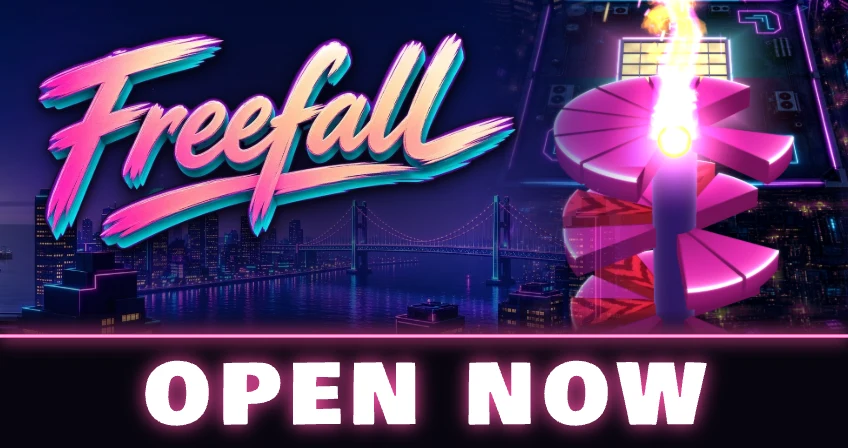
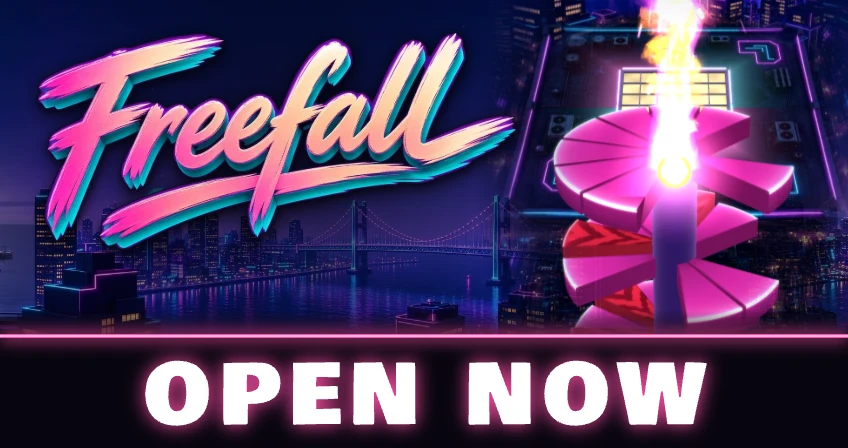
FREEFALL F5A — THE ADD-ON (THE DAY OFFICES FOG) + THE FRESH-EYES REVIEW's FIXES. THE ADD-ON (the owner's iPhone: by day the offices' floors washed into pale blue from the 3rd floor under the ball, ~40 % down the screen): the day offices' haze is a DEEPER blue (it was the floors' own pale periwinkle)

Changed region(s): [[0.5825, 0.0, 1.0, 0.75]]

diff --git a/js/games/freefall/break-fx.js b/js/games/freefall/break-fx.js
@@ -36,7 +36,7 @@ void main() {
   float size = mix(aT.z, aT.w, 1.0 - (1.0 - k) * (1.0 - k)), a = s6 + age * aM.y, ca = cos(a), sa = sin(a);
   // (F5A — THE DUST: a puff is a soft BALL, not a card — its depth is its NEAR side's. A card at its middle's depth was cut off along a
   //  straight line wherever the ground under it ran in front: the dust clouds' flat edges)
-  vec4 cn = projectionMatrix * (mv + vec4(0.0, 0.0, size * 0.6, 0.0));
+  vec4 cn = projectionMatrix * (mv + vec4(0.0, 0.0, size * 0.6 + 0.14, 0.0));   // (+ 0.14: a small star just over the sand is whole too — the review: half-discs)
   c.z = cn.z / cn.w * c.w;
   c.xy += vec2(position.x * ca - position.y * sa, position.x * sa + position.y * ca) * size * vec2(projectionMatrix[0][0], projectionMatrix[1][1]);
   gl_Position = c;
@@ -224,8 +224,8 @@ void main() {
   float seam = 1.0 - smoothstep(0.0, sw.x + 0.006, sheet.x) * smoothstep(0.0, sw.y + 0.006, sheet.y);
   c *= mix(1.0, (0.8 + 0.36 * grain) * (0.93 + 0.14 * mott) * (1.0 - 0.3 * seam), uNear);
   // (F5A — THE ROOF GRAIN: the same detail tile, read as the roof below reads it — night-fx.js SKY_F: one roof, no edge where the deck ends)
-  float gr = (texture2D(tGrain, ru * 15.0).r - 0.5) * 0.62 + (texture2D(tGrain, vec2(ru.y, -ru.x) * 5.7 + 0.31).r - 0.5) * 0.38;
-  c *= 1.0 + gr * uNear * uHaveG * mix(0.5, 1.15, uDay);
+  float gr = (texture2D(tGrain, ru * 15.0).r - 0.5) * 0.5 + (texture2D(tGrain, vec2(ru.y, -ru.x) * 5.7 + 0.31).r - 0.5) * 0.5;
+  c *= 1.0 + gr * uNear * uHaveG * mix(0.55, 1.45, uDay);
   // the tubes' light on the deck (night), dying with them
   float lit = 1.0 - smoothstep(0.0, 0.5, uTime - uBreakT - 0.3);
   c += mix(vec3(0.2, 0.75, 0.95), vec3(0.95, 0.25, 0.8), smoothstep(-0.4, 0.4, q.x * sign(q.y + 0.001))) * exp(-(inside - uHalf) / 0.28) * 0.55 * lit * (1.0 - uDay);
@@ -281,7 +281,8 @@ float lines(vec2 p, float t) {
   vec2 q = p + 0.5 * vec2(sin(p.y * 0.7 + t * 0.3), cos(p.x * 0.6 - t * 0.26));
   float a = sin(q.x * 3.4 + t * 0.35) + sin(q.y * 1.7 - t * 0.3) + sin((q.x * 1.3 - q.y * 1.5) * 1.3 + t * 0.22) - 0.35;
   float w = fwidth(a);
-  return 1.0 - smoothstep(w * 0.5, w * 1.5 + 0.003, abs(a));
+  // (the review: hairline closed loops read as scratches on glass — soft strokes two or three pixels wide, broken into arcs that come + go)
+  return (1.0 - smoothstep(w * 0.8, w * 2.6 + 0.004, abs(a))) * smoothstep(0.36, 0.6, vn2(q * 0.85 + 7.0));
 }
 void main() {
   float r = length(vW.xz);
@@ -330,11 +331,11 @@ void main() {
     lamp = mix(vec3(0.62, 0.26, 1.3), vec3(1.0, 0.8, 0.46), warm) * lum * uHaveW;
     // … broken into dashes by the swell — whole at the wall's foot, more broken the farther out
     float dash = 0.5 + 0.5 * sin(s * 7.6 + g.y * 2.4 + sin(u * 25.13) * 0.7 - uTime * 0.7) * (0.75 + 0.25 * sin(s * 2.9 - uTime * 0.31 + u * 9.0));
-    float streak = mix(1.0, smoothstep(0.12 + 0.05 * s, 0.95, dash), smoothstep(0.15, 1.1, s)) * exp(-s / 3.6);
+    float streak = mix(1.0, smoothstep(0.12 + 0.05 * s, 0.95, dash), smoothstep(0.15, 1.1, s)) * exp(-s / 2.8);
     vec3 st = min(lamp * 0.42, vec3(0.5)) * streak;
     col += st; glow += st * 0.3;
     // the ball: a soft pink-white streak
-vec3 bl = vec3(1.0, 0.55, 0.82) * (lane * 0.2 * smoothstep(0.15, 0.9, dash) + pool * 0.07);
+vec3 bl = vec3(1.0, 0.55, 0.82) * (lane * 0.12 * smoothstep(0.15, 0.9, dash) + pool * 0.04);
     col += bl; glow += bl * 0.3;
     // small pink / cyan GLINTS — short dashes that come + go
     vec2 gl = speck(vW.xz * 6.0 + 3.7, 0.22, vec2(1.0, 2.6), 0.13);
@@ -347,7 +348,7 @@ vec3 bl = vec3(1.0, 0.55, 0.82) * (lane * 0.2 * smoothstep(0.15, 0.9, dash) + po
     col = min(col, vec3(0.62));                 // (LINEAR light — a reflection in dark water stays a soft one: never a white blotch)
   } else {
     // ---- DAY: bright turquoise, paler toward the far edge (a soft lift — never a clipped white rim)
-    col = mix(vec3(0.02, 0.37, 0.62), vec3(0.1, 0.66, 0.8), smoothstep(0.12, 0.5, graze));
+    col = mix(vec3(0.03, 0.5, 0.7), vec3(0.1, 0.66, 0.8), smoothstep(0.12, 0.5, graze));   // (the review: turquoise to the near edge — it went steel-blue there)
     col = mix(col, vec3(0.4, 0.85, 0.9), smoothstep(0.5, 0.8, graze));
     col *= 1.0 + 0.09 * g.y;
     // thin, few, moving ripple LINES
@@ -356,8 +357,8 @@ vec3 bl = vec3(1.0, 0.55, 0.82) * (lane * 0.2 * smoothstep(0.15, 0.9, dash) + po
     vec2 sp = speck(vW.xz * 7.0 + g * 0.1, 0.4, vec2(1.0, 2.2), 0.28);
     col += vec3(1.0) * sp.x * pow(0.5 + 0.5 * sin(uTime * 2.6 + sp.y * 60.0), 5.0) * smoothstep(0.42, 0.7, graze) * 0.7;
     // the ball: its soft pink glow + a pale streak of light
-    col = mix(col, vec3(1.0, 0.72, 0.9), pool * 0.45);
-    col = mix(col, vec3(0.8, 0.97, 1.0), lane * 0.34);
+    col = mix(col, vec3(1.0, 0.58, 0.84), pool * 0.5);
+    col = mix(col, vec3(1.0, 0.78, 0.92), lane * 0.3);   // (the review: PINK — it read as a white column)
   }
   // THE FOAM: a soft line where the water meets the wall + round the pillar (by night only a faint pale edge)
   float ang = atan(vW.x, -vW.z), fe = vn2(vec2(ang * 9.0, uTime * 0.25)) * 0.16 + 0.04 * sin(ang * 31.0 + uTime * 0.8);
@@ -387,6 +388,8 @@ uniform vec2 uImpact;
 /** THE TRENCH's MOUTH (SOLO — the tower goes on down; the fresh-eyes review: the floor under the ball is ALWAYS in sight): the bed is open
  *  round the tower's foot + along the cleft that runs from it toward the viewer — everything the camera sees the lower floors through.
  *  → how far outside the mouth's ragged edge a point of the bed is (under 0 = in it). uHole = 0 (a finish): no mouth, the bed is whole. */
+/** (F5A — the review: the bed ended in a ruler-straight line against the wall) the bed thins out toward the shaft's FAR wall: what is behind it shows through → how much of it is there */
+float farFade(vec2 xz) { return 1.0 - smoothstep(uRW - 1.0, uRW - 0.04, length(xz)) * smoothstep(0.3, -0.6, xz.y); }
 float mouth(vec2 xz) {
   float d = length(vec2(xz.x, min(xz.y, 0.0)));
   return d - uHole - 0.06 * sin(xz.y * 2.9 + xz.x * 1.3) - 0.035 * sin(xz.y * 7.3 - xz.x * 5.1 + 1.7) - 0.02 * sin(xz.x * 13.0 + xz.y * 11.0);
@@ -415,12 +418,10 @@ vec4 sand(vec2 xz, float under, float lit) {
   // F5A — THE SAND READS AS SAND: its own warm colour kept (it was washed to one grey-teal / one flat violet), SOFT LIGHT across it — low
   // dunes (a slow swell of light + shade) —, a fine grain, and single grains that catch the light near the ball + the tower's foot
   float dune = vn2(xz * 0.5 + 3.0) * 0.62 + vn2(xz * 1.6 + 11.0) * 0.38, grain = vn2(xz * 64.0), soft = 0.62 + 0.76 * dune;
-  vec2 gq = xz * 96.0;
-  float glint = step(0.99, h21(floor(gq))) * (1.0 - smoothstep(0.12, 0.42, length(fract(gq) - 0.5))) * (0.3 + ball + 0.6 * pool);   // (a round grain of light — never a square dot)
   c *= 0.86 + 0.28 * grain;
   // by night: deep blue-violet sand, the tower's rim glow in a pool round its foot, the ball's own warm light (the sand's true colour shows in it) · by day: sunlit sand under blue water + the caustics
-  vec3 night = c * vec3(0.075, 0.07, 0.19) * (0.34 + 0.95 * dif) * soft + c * uRimC * pool * (0.4 + 0.6 * dif) + c * vec3(1.0, 0.7, 0.74) * ball * 0.9 + vec3(0.7, 0.75, 1.0) * glint * 0.22;
-  vec3 day = c * vec3(0.6, 0.8, 0.84) * (0.42 + 0.92 * dif) * soft + c * vec3(0.5, 0.92, 0.95) * (sc1(xz * 1.4, uTime) + 0.6 * sc1(xz * 2.4 + 3.1, uTime * 1.31 + 2.0)) * 0.42 + c * vec3(0.55, 0.78, 0.9) * pool * 0.4 + vec3(1.0) * glint * 0.3;
+  vec3 night = c * vec3(0.075, 0.07, 0.19) * (0.34 + 0.95 * dif) * soft + c * uRimC * pool * (0.4 + 0.6 * dif) + c * vec3(1.0, 0.7, 0.74) * ball * 0.9;
+  vec3 day = c * vec3(0.82, 0.82, 0.72) * (0.42 + 0.92 * dif) * soft + c * vec3(0.5, 0.92, 0.95) * (sc1(xz * 1.4, uTime) + 0.6 * sc1(xz * 2.4 + 3.1, uTime * 1.31 + 2.0)) * 0.42 + c * vec3(0.55, 0.78, 0.9) * pool * 0.4;
   vec3 col = mix(night, day, uDay);
   // (… and it goes off into the water's own haze toward the shaft's far wall: never a hard bright line where the bed ends)
   col = mix(col, mix(vec3(0.008, 0.008, 0.035), vec3(0.02, 0.15, 0.3), uDay), smoothstep(uRW - 1.3, uRW, r) * step(xz.y, 0.0) * 0.8);
@@ -450,7 +451,8 @@ void main() {
   if (uHole > 0.0 && m < 0.0) discard;                        // (SOLO: the trench's mouth)
   vec4 s = sand(q, 0.0, 1.0);
   vec3 col = uBloom > 0.5 ? mix(uRimC, vec3(1.0), 0.3) * s.w * 0.6 : lipped(s.rgb, m);
-  gl_FragColor = vec4(col * uOuter, uOuter);
+  float fo = uOuter * farFade(q);
+  gl_FragColor = vec4(col * fo, fo);
   #include <tonemapping_fragment>
   #include <colorspace_fragment>
 }`;
@@ -470,7 +472,7 @@ void main() {
   float e = min(vB.x, min(vB.y, vB.z)), ew = fwidth(e) * 1.4 + 0.002, line = 1.0 - smoothstep(0.0, ew * 2.2, e);
   float dI = length(vRest.xz - uImpact), front = (uTime - uBreakT) * uCrack, crack = line * smoothstep(0.0, 0.4, front - dI) * step(uBreakT, uTime);
   vec3 col = mix(s.rgb, mix(uRimC * 1.6, vec3(0.3, 0.9, 1.0), uDay * 0.6), crack * 0.9 * (1.0 - 0.75 * fly));
-  float alpha = 1.0 - fly * smoothstep(0.6, 1.0, vK);
+  float alpha = (1.0 - fly * smoothstep(0.6, 1.0, vK)) * farFade(vRest.xz);
   if (uBloom > 0.5) col = mix(uRimC, vec3(1.0), 0.3) * (s.w * 0.6 + crack * 0.7);
   gl_FragColor = vec4(col * alpha, alpha);
   #include <tonemapping_fragment>
@@ -564,7 +566,7 @@ void main() {
   rays = rays * rays * rays * (0.55 + 0.45 * sin(a * 97.0 - t * 2.3)) + 0.12;     // (many thin shafts on a faint veil of light — never two wide bars)
   float env = (1.0 - smoothstep(0.2, 0.5, abs(a))) * smoothstep(0.0, 0.1, y) * (1.0 - smoothstep(0.82, 1.0, y)) * (0.4 + 0.6 * y);
   float age = uTime - uT0, life = smoothstep(0.0, 0.45, age) * (1.0 - smoothstep(2.3, 3.4, age));
-  vec3 col = mix(vec3(0.5, 0.95, 1.0), vec3(1.0, 0.97, 0.78), y) * rays * env * life * 0.5;
+  vec3 col = mix(vec3(0.5, 0.95, 1.0), vec3(1.0, 0.97, 0.78), y) * rays * env * life * 0.3;   // (the review: rays + dust never add up to a white-out)
   if (uBloom > 0.5) col *= 0.3;
   gl_FragColor = vec4(col, 0.0);
   #include <tonemapping_fragment>

diff --git a/js/games/freefall/night.js b/js/games/freefall/night.js
@@ -54,13 +54,18 @@ const DEEP_N = [1.25, 1.25, 1.4, 0, 0, 0, 0, 0, 0, 0, 0, 2], DEEP_D = [0.9, 1.0,
 export const AREA_NIGHT = Object.freeze([[1, 1, 1, 0, 0, 0, 0, 0, 0, 0, 0, 4], [1.3, 1.3, 1.45, 0, 0, 0, 0, 0, 0, 0, 0, 4], [0.95, 0.86, 1, 0, 0, 0, 0, 0, 0, 0, 0, 4], [1.05, 1.1, 1.15, 0, 0, 0, 0, 0, 0, 0, 0, 4], DEEP_N, DEEP_N, DEEP_N]);
 export const AREA_DAY = Object.freeze([
   [1, 1, 1, 0.56, 0.74, 0.93, 0.09, 0.105, 0.15, 0, 0, 4],           // THE ROOFTOP: the open air · THE STORM CLOUD
-  [0.5, 0.62, 0.86, 0.5, 0.68, 0.92, 0.03, 0.04, 0.08, 0, 3, 4],       // THE OFFICES: sunlit glass, daylight blue (the wall held down: white floors read on it)
+  [0.5, 0.62, 0.86, 0.2, 0.37, 0.72, 0.03, 0.04, 0.08, 0, 3, 4],       // THE OFFICES: sunlit glass, daylight blue (the wall held down: white floors read on it) — F5A's add-on: its haze a DEEPER blue (it was the floors' own pale periwinkle: 0.5, 0.68, 0.92)
   [0.82, 0.68, 0.6, 0.5, 0.33, 0.22, 0.035, 0.02, 0.02, 0, 3, 4],      // THE SPEAKEASY: brick + brass, a warm dusty haze
   [1, 1.08, 1.1, 0.0018, 0.042, 0.107, 0.012, 0.045, 0.04, 1, 1, 4],   // UNDER THE HARBOR: the water (#063a5c below) · THE MURK · bubbles
   DEEP_D, DEEP_D, DEEP_D,                                             // THE DEEP: deep blue, the wreck's warm lamps · drifting particles
 ]);
 /** an area's haze strength by day (how far the tower's lower floors fade into it): THE ROOFTOP has almost none — F3B: NO fog wash over the roof below */
 export const FOG_K = Object.freeze([0.2, 1, 1, 1, 1, 1, 1]);
+/** F5A's ADD-ON — THE DAY OFFICES FOG (the owner's iPhone: by day the offices' floors washed into pale blue from the 3rd floor under the
+ *  ball, ~40 % down the screen — the speakeasy + the harbor fade from 60 – 70 %): how far down the haze STARTS, as a share of its 7 floors
+ *  (0 = from the ball's own floor, as every other area: a dark haze only shows 4 – 5 floors down; THE OFFICES' pale floors on a pale blue
+ *  ground showed it at once) — its floors keep their colour + contrast as far down the screen as the other areas' */
+export const FOG_START = Object.freeze([0, 0.36, 0, 0, 0, 0, 0]);
 /** THE ROOF BELOW (F3B — docs/freefall.md): the painting's skylight (its centre + its frame's half size, as fractions of the picture —
  *  scripts/build-freefall-assets.py ROOF_SKY measures them) · how much of the painting's width the screen's width shows: `s0` on the
  *  title screen + floor 0 → `s1` by floor `to` (it RISES toward you floor by floor, by the same share each floor — then it stops: the
@@ -150,7 +155,7 @@ export function createNight(host, o = {}) {
     // (F4A — THE HAZE FOLLOWS THE FLOOR: the area BELOW the border in sight has its own haze, strength + caustics — uFogSeam = that border's height)
     uFogB: { value: new THREE.Vector3(0.62, 0.84, 0.98) }, uFogKB: { value: FOG_K[0] }, uCaustB: { value: 0 }, uFogSeam: { value: -1e5 },
     // (F3B) how strongly the tower fades into that haze (the area's — THE ROOFTOP: almost none)
-    uFogK: { value: FOG_K[0] },
+    uFogK: { value: FOG_K[0] }, uFogS: { value: 0 }, uFogSB: { value: 0 },
     // (F3B) the pillar is not drawn under this height: THE ROOF is shut until the skylight breaks
     uCutY: { value: -1e9 } };
   const TWINS = [];
@@ -252,11 +257,11 @@ export function createNight(host, o = {}) {
   const fxTex = picture('blaze', new URL(`../../../assets/freefall/fx/blaze.webp?v=${FF_ART_REV}`, import.meta.url).href, false);
 
   // ---- THE TOWER: the pillar + the slices (ONE instanced mesh)
-  const pillarMat = new THREE.ShaderMaterial({ vertexShader: PILLAR_V, fragmentShader: PILLAR_F, uniforms: { uBloom: G.uBloom, uTopY: G.uTopY, uDay: G.uDay, uFog: G.uFog, uFogK: G.uFogK, uFogB: G.uFogB, uFogKB: G.uFogKB, uFogSeam: G.uFogSeam, uCutY: G.uCutY, uCol: { value: new THREE.Color(0x2a1466) } } });
+  const pillarMat = new THREE.ShaderMaterial({ vertexShader: PILLAR_V, fragmentShader: PILLAR_F, uniforms: { uBloom: G.uBloom, uTopY: G.uTopY, uDay: G.uDay, uFog: G.uFog, uFogK: G.uFogK, uFogS: G.uFogS, uFogSB: G.uFogSB, uFogB: G.uFogB, uFogKB: G.uFogKB, uFogSeam: G.uFogSeam, uCutY: G.uCutY, uCol: { value: new THREE.Color(0x2a1466) } } });
   const pillar = new THREE.Mesh(new THREE.CylinderGeometry(SHAPE.RI - 0.004, SHAPE.RI - 0.004, 44, 28, 1, false), pillarMat);   // (capped: the tower's top is its end — nothing stands over the ball's floor)
   pillar.frustumCulled = false; scene.add(pillar); twin(pillar, pillarMat);
   const sGeo = wedgeGeo(), aI = inst(sGeo, 'aI', MAXI, 4), aC = inst(sGeo, 'aC', MAXI, 4), aF = inst(sGeo, 'aF', MAXI, 4), aR = inst(sGeo, 'aR', MAXI, 3);
-  const sliceMat = new THREE.ShaderMaterial({ vertexShader: SLICE_V, fragmentShader: SLICE_F, uniforms: { uBloom: G.uBloom, uTopY: G.uTopY, uTime: G.uTime, uSpin: G.uSpin, uGrey: G.uGrey, uDay: G.uDay, uCaust: G.uCaust, uFog: G.uFog, uFogK: G.uFogK, uFogB: G.uFogB, uFogKB: G.uFogKB, uCaustB: G.uCaustB, uFogSeam: G.uFogSeam, uRing: { value: SHAPE.RO - SHAPE.RI }, uWidth: { value: SHAPE.RO * (WEDGE - 2 * MARGIN) / 2 } }, extensions: derivs, ...premul });
+  const sliceMat = new THREE.ShaderMaterial({ vertexShader: SLICE_V, fragmentShader: SLICE_F, uniforms: { uBloom: G.uBloom, uTopY: G.uTopY, uTime: G.uTime, uSpin: G.uSpin, uGrey: G.uGrey, uDay: G.uDay, uCaust: G.uCaust, uFog: G.uFog, uFogK: G.uFogK, uFogS: G.uFogS, uFogSB: G.uFogSB, uFogB: G.uFogB, uFogKB: G.uFogKB, uCaustB: G.uCaustB, uFogSeam: G.uFogSeam, uRing: { value: SHAPE.RO - SHAPE.RI }, uWidth: { value: SHAPE.RO * (WEDGE - 2 * MARGIN) / 2 } }, extensions: derivs, ...premul });
   const slices = new THREE.Mesh(sGeo, sliceMat);
   slices.frustumCulled = false; sGeo.instanceCount = 0; scene.add(slices); twin(slices, sliceMat);
 
@@ -288,7 +293,7 @@ export function createNight(host, o = {}) {
   sparks.frustumCulled = false; scene.add(sparks); twin(sparks, sparkMat);
   const lGeo = quadGeo(), lP = inst(lGeo, 'aP', LIGHTS, 4), lQ = inst(lGeo, 'aQ', LIGHTS, 4), lC = inst(lGeo, 'aC', LIGHTS, 3);
   lGeo.instanceCount = LIGHTS;
-  const lightMat = new THREE.ShaderMaterial({ vertexShader: LIGHT_V, fragmentShader: LIGHT_F, uniforms: { uTime: G.uTime, uBloom: G.uBloom, uAspect: G.uAspect, uCover: G.uCover }, side: THREE.DoubleSide, ...addOpt });
+  const lightMat = new THREE.ShaderMaterial({ vertexShader: LIGHT_V, fragmentShader: LIGHT_F, uniforms: { uTime: G.uTime, uBloom: G.uBloom, uAspect: G.uAspect, uCover: G.uCover, uOnBed: { value: 0 } }, side: THREE.DoubleSide, ...addOpt });
   // THE BLAZE = NEON FIRE: the flame sprites (a fixed pool, flown in their shader) + the ribbon behind the ball
   const fGeo = quadGeo(), fO = inst(fGeo, 'aO', FLAMES, 3), fV = inst(fGeo, 'aV', FLAMES, 3), fT = inst(fGeo, 'aT', FLAMES, 4);
   for (let i = 0; i < FLAMES; i++) { fT.array[i * 4] = -100; fT.array[i * 4 + 1] = 1; }
@@ -669,6 +674,7 @@ export function createNight(host, o = {}) {
     // the ball
     const lift = ballLift(run, tau), by = -run.floor * SHAPE.H + SHAPE.R_BALL + lift;
     const bed = fin >= 0 && run.floor >= fin;   // (a finish: the ball is over the seabed itself)
+    lightMat.uniforms.uOnBed.value = bed ? 1 : 0;
     const fr = floorRec(run.floor), su = sliceUnder(run.a, fr.twist), solid = bed || !(((fr.gap | broken[run.floor % RING]) >> su) & 1);
     const raised = !bed && solid && ((((fr.red | (fr.m1 ? moversAt(fr, tick, RR) : 0)) >> su) & 1)) ? SHAPE.RISE : 0;
     ball.position.set(0, by + (lift < 0.02 ? raised : 0), SHAPE.RB); ball.updateMatrix(); ball.matrixWorld.copy(ball.matrix);
@@ -745,6 +751,7 @@ export function createNight(host, o = {}) {
     const AD = AREA_DAY[fa], FA = AREA_DAY[fk], FB = AREA_DAY[fn > fa ? fn : fa];
     G.uFog.value.set(FA[3], FA[4], FA[5]); G.uFogB.value.set(FB[3], FB[4], FB[5]);
     G.uFogK.value = FOG_K[fk]; G.uFogKB.value = FOG_K[fn > fa ? fn : fa];
+    G.uFogS.value = FOG_START[fk]; G.uFogSB.value = FOG_START[fn > fa ? fn : fa];
     G.uCaust.value = day && tier > 0 ? FA[9] : 0; G.uCaustB.value = day && tier > 0 ? FB[9] : 0;
     G.uFogSeam.value = -AREAS[fn > fa ? fn : fa].from * SHAPE.H + 0.5;   // (half a floor above the border's first floor)
     fogSnap = false;
@@ -771,7 +778,7 @@ export function createNight(host, o = {}) {
     const BO = breaks.out;
     skyU.uOpen.value = BO[0]; wallU.uLitT.value = BO[2]; wallU.uShafts.value = BO[3];
     S[ROOFA] += (BO[1] - S[ROOFA]) * Math.min(1, sec * 6); skyU.uGA.value = S[ROOFA];
-    if (staged) sparks.visible = false;
+    if (staged) { sparks.visible = false; if (state === 'made') shards.visible = false; }   // (… and THE BOTTOM's picture without the last floor's red shards: red is the death colour — never the subject of the WIN card)
     renderer.setRenderTarget(wallRT); renderer.render(wallScene, wallCam); renderer.setRenderTarget(null);
     renderer.render(scene, cam);
     if (bloom && tier === 2) bloom.render(scene, cam, TWINS, (day ? 0.4 : 1) * shotBloom);   // (by day only the ball + the fire give light — and less of it: the scene is bright already)
@@ -868,7 +875,7 @@ export function createNight(host, o = {}) {
     shot(runX, tauX, bw, bh, rect, o) {
       if (!w || !el.width || !el.height) return null;
       SV.set(S);
-      const st0 = state, sv0 = sparks.visible;
+      const st0 = state, sv0 = sparks.visible, sh0 = shards.visible;
       let fi = -1, f0 = 0;
       try {
         staged = true; shotZoom = o.zoom > 0 ? o.zoom : 1; shotBloom = o.bloom >= 0 ? o.bloom : 1;
@@ -888,7 +895,7 @@ export function createNight(host, o = {}) {
       } finally {
         if (fi >= 0) flash[fi] = f0;
         breaks.quiet(false);
-        S.set(SV); state = st0; sparks.visible = sv0; staged = false; shotZoom = 1; shotBloom = 1; shotGlow = 0; frames--;
+        S.set(SV); state = st0; sparks.visible = sv0; shards.visible = sh0; staged = false; shotZoom = 1; shotBloom = 1; shotGlow = 0; frames--;
       }
     },
     /** where things are on the screen — the page's own check: the ball (its centre + its size in px), its floor's line, the floors in sight under it */

diff --git a/js/games/freefall/breaks.js b/js/games/freefall/breaks.js
@@ -203,7 +203,7 @@ export function createBreaks(X) {
   const rP = new Float32Array(rockN * 4), rS = new Float32Array(rockN * 3);
   for (let i = 0; i < rockN; i++) {
     // (round the tower's foot, behind + beside it — the front sector is the ball's)
-    const back = rockN - FRONT_ROCKS, a = (0.2 + 0.6 * (i + 0.5 * rnd()) / back) * 2 * Math.PI + Math.PI * 0.8, r = 1.35 + rnd() * 1.1, size = 0.1 + rnd() * 0.17;
+    const back = rockN - FRONT_ROCKS, a = (0.2 + 0.6 * (i + 0.5 * rnd()) / back) * 2 * Math.PI + Math.PI * 0.8, r = 1.3 + rnd() * 0.65, size = 0.1 + rnd() * 0.17;
     if (i >= back) { const j = i - back, fx = (j & 1 ? 1 : -1) * (0.35 + rnd() * 0.75) + (j === 4 ? 0.2 : 0), fz = SHAPE.RB + 0.75 + j * 0.42 + rnd() * 0.2, fs = 0.09 + rnd() * 0.13; rP.set([fx, fs * 0.3, fz, fs], i * 4); rS.set([0.8 + rnd() * 0.5, 0.7 + rnd() * 0.4, rnd() * 6.2832], i * 3); continue; }
     // (… and never in THE TRENCH's MOUTH — the cleft that runs from the tower toward the viewer: a rock there would hang in the air in SOLO)
     let x = Math.sin(a) * r;
@@ -284,7 +284,7 @@ export function createBreaks(X) {
     spSt = 1; spT = time; waterU.uSplashT.value = time; played++; spBub = time + 0.16; spWake = time + 3.2;
     const y = waterY;
     // the crown: drops thrown up + out in a cone (lit from above by night), spray, a ring of foam
-    for (let k = 0; k < (X.reduce ? 6 : share(34)); k++) { const a = rnd() * 6.2832, o = 0.5 + rnd() * 1.5, up = 1.8 + rnd() * 2.6; X.spark(bx + Math.cos(a) * 0.12, y + 0.04, bz + Math.sin(a) * 0.12, Math.cos(a) * o, up, Math.sin(a) * o * 0.8, 0.45 + rnd() * 0.45, 0.01 + rnd() * 0.012, day ? 0.82 : 1, day ? 0.96 : 0.88, day ? 1 : 0.66); }
+    for (let k = 0; k < (X.reduce ? 6 : share(22)); k++) { const a = rnd() * 6.2832, o = 0.5 + rnd() * 1.5, up = 1.8 + rnd() * 2.6; X.spark(bx + Math.cos(a) * 0.12, y + 0.04, bz + Math.sin(a) * 0.12, Math.cos(a) * o, up, Math.sin(a) * o * 0.8, 0.45 + rnd() * 0.45, 0.007 + rnd() * 0.007, day ? 0.5 : 0.6, day ? 0.64 : 0.54, day ? 0.68 : 0.42); }   // (F5A — the review: fewer, finer, under white — the crown was a clipped white core with hard bars)
     X.sparksDirty();
     for (let k = 0; k < share(9); k++) { const a = rnd() * 6.2832, o = 0.6 + rnd() * 1.1; puff(bx + Math.cos(a) * 0.15, y + 0.12, bz + Math.sin(a) * 0.15, Math.cos(a) * o, 1.6 + rnd() * 1.6, Math.sin(a) * o, 0.34 + rnd() * 0.14, 0.07, 0.26, 4, -5.5, 0, 0, 2, day ? 0.72 : 0.9, day ? 0.92 : 0.98, 1, 0.3); }   // (F5A: by day a touch of the water's own aqua, born smaller + clear of the surface — the crown was one clipped white lump cut flat by the water)
     for (let k = 0; k < share(7); k++) { const a = k / 7 * 6.2832 + rnd() * 0.5, o = 0.7 + rnd() * 0.6; puff(bx + Math.cos(a) * 0.25, y + 0.05, bz + Math.sin(a) * 0.25, Math.cos(a) * o, 0.2 + rnd() * 0.3, Math.sin(a) * o, 0.3 + rnd() * 0.12, 0.14, 0.46, k & 1, -0.4, 1.5, 0, 0.5, 0.5, 0.56, 0.6, 0.28); }
@@ -307,7 +307,7 @@ export function createBreaks(X) {
       if (solo) shelf(k); else { sx = bx + Math.cos(a) * 0.3; sz = bz + Math.sin(a) * 0.3; svx = Math.cos(a) * o; svz = Math.sin(a) * o; }
       // (F5A — SOFT: many thin veils of lifted sand in the sand's own lit colour — never a few heavy dark blobs)
       // (a veil's light is its colour × its cover: piled up, the veils come to the dust's own colour — never to white)
-      puff(sx, y + 0.16, sz, svx, 0.35 + rnd() * 0.7, svz, 1.5 + rnd() * 0.9, 0.3, solo ? 0.82 : 1.0, k & 1, -0.12, 2.2, 0.05, 0.4, (day ? 0.115 : 0.04) * c, (day ? 0.118 : 0.036) * c, (day ? 0.098 : 0.07) * c, -0.42);
+      puff(sx, y + 0.16, sz, svx, 0.35 + rnd() * 0.7, svz, 1.5 + rnd() * 0.9, 0.3, solo ? 0.82 : 1.0, k & 1, -0.12, 2.2, 0.05, 0.4, (day ? 0.075 : 0.04) * c, (day ? 0.07 : 0.036) * c, (day ? 0.055 : 0.07) * c, day ? -0.3 : -0.42);
     }
     for (let k = 0; k < share(7); k++) {
       const a = rnd() * 6.2832, o = 0.6 + rnd() * 1.2;
@@ -329,7 +329,7 @@ export function createBreaks(X) {
     puff(x, y, z, 0, 0, 0, 0.55, 0.35, 1.2, 2, 0, 0, 0, 0, r * 0.45, g * 0.45, b * 0.45, 0);
     for (let k = 0; k < share(30); k++) {
       const u = rnd() * 2 - 1, a = rnd() * 6.2832, s = Math.sqrt(1 - u * u), v = 1.9 + rnd() * 1.1;   // (… a ball of stars about 1 across: all of it on a phone's screen)
-      puff(x, y, z, Math.cos(a) * s * v, u * v, Math.sin(a) * s * v * 0.6, 1.1 + rnd() * 0.5, 0.17, 0.045, 2, -0.9, 2.2, 0.03, 0, r * 1.8, g * 1.8, b * 1.8, 0);
+      puff(x, y, z, Math.cos(a) * s * v, u * v, Math.sin(a) * s * v * 0.6, 1.1 + rnd() * 0.5, 0.12, 0.035, 2, -0.9, 2.2, 0.03, 0, r * 1.15, g * 1.15, b * 1.15, 0);   // (F5A — the review: small hot points, never flat cream discs)
     }
     for (let k = 0; k < share(18); k++) { const a = rnd() * 6.2832, v = 1.3 + rnd() * 1.6; X.spark(x, y, z, Math.cos(a) * v, Math.sin(a) * v + 0.8, (rnd() - 0.5) * v * 0.6, 0.45 + rnd() * 0.45, 0.011 + rnd() * 0.01, r, g, b); }
     X.sparksDirty();
@@ -351,7 +351,7 @@ export function createBreaks(X) {
   }
   function crackOpen(bx, bz) {
     boSt = 2; boCT = time; bedBreak.value = time; played++;
-    for (let k = 0; k < share(10); k++) { shelf(k); puff(sx, bedY + 0.12, sz, svx * 0.6, 0.3 + rnd() * 0.6, svz * 0.6, 1.1 + rnd() * 0.7, 0.3, 0.82, k & 1, -0.2, 1.8, 0.05, 0.4, day ? 0.115 : 0.04, day ? 0.118 : 0.036, day ? 0.098 : 0.07, -0.42); }
+    for (let k = 0; k < share(10); k++) { shelf(k); puff(sx, bedY + 0.12, sz, svx * 0.6, 0.3 + rnd() * 0.6, svz * 0.6, 1.1 + rnd() * 0.7, 0.3, 0.82, k & 1, -0.2, 1.8, 0.05, 0.4, day ? 0.075 : 0.04, day ? 0.07 : 0.036, day ? 0.055 : 0.07, day ? -0.3 : -0.42); }
     X.kick(0.16, 0.7);
   }
 

diff --git a/js/games/freefall/night-fx.js b/js/games/freefall/night-fx.js
@@ -177,8 +177,8 @@ void main() {
     // F5A — THE ROOF GRAIN (floors 36 – 39 by day looked soft: the painting was made at 1024 + enlarged): a fine concrete-grain DETAIL
     // tile laid over the roof as it comes close (uGrain) — two readings of it, a fine one + a coarser one turned (no tile shows), as light
     // + shade about the painting's own colour; its mipmaps let it go with distance. The same reading as the deck's (DECK_F): one roof.
-    float gr = (texture2D(tGrain, ru * 15.0).r - 0.5) * 0.62 + (texture2D(tGrain, vec2(ru.y, -ru.x) * 5.7 + 0.31).r - 0.5) * 0.38;
-    rf *= 1.0 + gr * uGrain * uHaveG * mix(0.5, 1.15, uDay);
+    float gr = (texture2D(tGrain, ru * 15.0).r - 0.5) * 0.5 + (texture2D(tGrain, vec2(ru.y, -ru.x) * 5.7 + 0.31).r - 0.5) * 0.5;
+    rf *= 1.0 + gr * uGrain * uHaveG * mix(0.55, 1.45, uDay);   // (the review: the coarser reading carries half — the fine one alone did not survive a phone's scale)
     vec3 g = mix(mix(flat_, rf, uHaveR), mix(flat_, ct, uHaveC), outside);
     g *= mix(1.5, 1.0, uDay);                                 // (by night the painting is shown a little over its own light: the neon reads from 40 floors up)
     // only a LIGHT distance haze, far out — where the city meets the panorama
@@ -228,7 +228,7 @@ void main() {
   gl_Position = projectionMatrix * viewMatrix * vec4(w, 1.0);
 }`;
 export const SLICE_F = /* glsl */`
-uniform float uBloom, uTopY, uTime, uRing, uWidth, uGrey, uDay, uCaust, uFogK, uCaustB, uFogKB, uFogSeam;
+uniform float uBloom, uTopY, uTime, uRing, uWidth, uGrey, uDay, uCaust, uFogK, uCaustB, uFogKB, uFogSeam, uFogS, uFogSB;
 uniform vec3 uFog, uFogB;
 varying vec4 vE, vC, vF;
 varying vec3 vW, vN, vR;
@@ -332,7 +332,7 @@ export const PILLAR_V = /* glsl */`
 varying vec3 vW, vN;
 void main() { vec4 w = modelMatrix * vec4(position, 1.0); vW = w.xyz; vN = normalize(mat3(modelMatrix) * normal); gl_Position = projectionMatrix * viewMatrix * w; }`;
 export const PILLAR_F = /* glsl */`
-uniform float uBloom, uTopY, uDay, uFogK, uFogKB, uFogSeam, uCutY;
+uniform float uBloom, uTopY, uDay, uFogK, uFogKB, uFogSeam, uCutY, uFogS, uFogSB;
 uniform vec3 uCol, uFog, uFogB;
 varying vec3 vW, vN;
 void main() {
@@ -350,7 +350,8 @@ void main() {
     col = mix(vec3(0.26, 0.36, 0.48), vec3(0.78, 0.87, 0.96), nv) * brush + vec3(1.0) * band * 0.45;
     col = mix(col, vec3(0.1, 0.3, 0.42), step(0.5, vN.y));
     float zb = 1.0 - smoothstep(-0.3, 0.3, vW.y - uFogSeam);   // (F4A: under the border in sight — that area's own haze)
-    col = mix(col, mix(uFog, uFogB, zb), far * 0.62 * mix(uFogK, uFogKB, zb));
+    float fs = mix(uFogS, uFogSB, zb), hz = clamp((far - fs) / (1.0 - fs), 0.0, 1.0);   // (F5A's add-on: the area's haze starts fs of the way down)
+    col = mix(col, mix(uFog, uFogB, zb), hz * 0.62 * mix(uFogK, uFogKB, zb));
   }
   if (uBloom > 0.5) col = vec3(0.0);
   gl_FragColor = vec4(col, 1.0);
@@ -425,13 +426,18 @@ void main() {
   vQ = position.xy * 2.0; vK = aQ; vC = aC;
 }`;
 export const LIGHT_F = /* glsl */`
-uniform float uTime, uBloom, uCover;
+uniform float uTime, uBloom, uCover, uOnBed;
 varying vec2 vQ; varying vec4 vK; varying vec3 vC;
 ${FIRE_RAMP}
 void main() {
   float kind = vK.x, a = 0.0, heart = 0.0, isRing = 0.0;
   vec3 ring = vec3(0.0);
-  if (kind < 0.5) { float r = min(1.0, length(vQ)); a = exp(-r * r * 5.5) * (1.0 - r * r) * (1.0 - r * r); heart = a * a * 0.6; }
+  if (kind < 0.5) {
+    float r = min(1.0, length(vQ)); a = exp(-r * r * 5.5) * (1.0 - r * r) * (1.0 - r * r); heart = a * a * 0.6;
+    // (F5A — the review: a FINISH — the ball rests on the seabed, and the sand under it sliced its halo flat along a straight line: there
+    //  its lower part fades out softly before the sand does; the sand wears the ball's own pool of light. uOnBed: only there)
+    a *= mix(1.0, smoothstep(-0.46, -0.1, vQ.y), uOnBed);
+  }
   else if (kind < 1.5) {
     // THE TRAIL: t = 0 at the ball … 1 at its tip
     float t = vQ.y * 0.5 + 0.5, w = mix(1.0, 0.08, pow(t, 0.7));

diff --git a/js/games/freefall/shot.js b/js/games/freefall/shot.js
@@ -1,7 +1,8 @@
 // FREEFALL — THE RUN's FRAME (F4B — docs/freefall.md "THE SHARE CARD"; HIGH RISE S5's shot.js is the pattern): the picture of the moment a
 // run ended (the red's burst round the ball · the darkness on the ball · the seabed's impact, gold · the bell), kept on THIS phone until
-// the next run. The stage takes it (stage.js — a beat after the end, per cause: night.js#snap copies the frame off the canvas in the
-// frame it was drawn), the share card draws it (share.js). Pure state + numbers: no DOM, no fetch, nothing that counts.
+// the next run. The stage takes it (stage.js — a beat after the end, per cause; F5A: the picture is STAGED — the moment a beat BEFORE the
+// end, drawn once more for the card alone: night.js#shot, the numbers below), the share card draws it (share.js). Pure state + numbers:
+// no DOM, no fetch, nothing that counts.
 
 let held = null;
 /** keep this run's frame — { key, canvas (THE BOX's size: the picture round the ball), cause, made, floor, blazes, look } — the one before
@@ -24,7 +25,7 @@ export const SHOT_BOX = Object.freeze({ w: 984, h: 792 });
 // (F4B — the screen review: at 90 ms the slice was still WHITE-HOT — under a HIT THE RED tab the frame read as a white wedge. At 200 ms
 //  the slice is RED again, a pale flash still on it, the sparks spread in the air: it reads as the hit.)
 // (F5A: THE BOTTOM 390 → 410 — the GOLD ring stands round the ball, inside the picture)
-export const SHOT_AT = Object.freeze({ red: 200, dark: 240, cap: 60, made: 410 });
+export const SHOT_AT = Object.freeze({ red: 200, dark: 240, cap: 60, made: 355 });   // (the review: 355 — the gold ring tight round the ball, whole inside the picture)
 /** F5A — THE HERO FRAME TELLS THE STORY (the owner's real SHARE read as noise: taken AFTER the crash — no ball, a white hit-flash slice,
  *  random spark streaks): the frame is STAGED — the scene draws the moment a beat BEFORE the end once more, for the card alone
  *  (night.js#shot: zoomed out a little, no hit flash, no sparks; the screen never shows it) —

diff --git a/js/games/freefall/billboard.js b/js/games/freefall/billboard.js
@@ -13,7 +13,7 @@ export const BOARD = Object.freeze({
   w: 848, h: 448, band: 0.25,
   logoW: 0.6, logoX: 0.028, logoY: 0.045,
   city: Object.freeze({ x: 980, y: 262, w: 1420, h: 750 }),
-  towerBallX: 0.795, towerBallY: 0.33, towerW: 0.47, towerFade: 0.42,
+  towerBallX: 0.795, towerBallY: 0.42, towerW: 0.47, towerFade: 0.5,
   openCap: 0.56, openMaxW: 0.86,
 });
 const PINK = '#ff4fa8';
@@ -33,9 +33,12 @@ export function paintBoard(c, W, H, pics) {
   const o = off.getContext('2d');
   o.imageSmoothingQuality = 'high'; o.drawImage(pics.tower, 0, 0, off.width, off.height);
   o.globalCompositeOperation = 'destination-in';
-  let g = o.createLinearGradient(0, 0, off.width, 0);
-  g.addColorStop(0, 'rgba(0,0,0,0)'); g.addColorStop(B.towerFade, 'rgba(0,0,0,1)'); g.addColorStop(0.9, 'rgba(0,0,0,1)'); g.addColorStop(1, 'rgba(0,0,0,0.6)');
-  o.fillStyle = g; o.fillRect(0, 0, off.width, off.height);
+  // (the review: the tower stood on a bounded rooftop — a pasted screenshot. It MELTS into the city: a soft oval round the tower's own
+  //  column, the roof round it gone by the oval's edge)
+  o.save(); o.translate(off.width * pics.ball.x, off.height * 0.5); o.scale(1, 1.75);
+  let g = o.createRadialGradient(0, 0, off.width * 0.2, 0, 0, off.width * B.towerFade);
+  g.addColorStop(0, 'rgba(0,0,0,1)'); g.addColorStop(0.55, 'rgba(0,0,0,0.8)'); g.addColorStop(1, 'rgba(0,0,0,0)');
+  o.fillStyle = g; o.fillRect(-off.width, -off.height, 2 * off.width, 2 * off.height); o.restore();
   c.drawImage(off, tx, ty);
   // (the words read on any city: a soft dark behind the lettering)
   const lw = W * B.logoW, lh = lw * pics.logo.height / pics.logo.width, lx = W * B.logoX, ly = H * B.logoY;

diff --git a/js/games/freefall/day-fx.js b/js/games/freefall/day-fx.js
@@ -124,9 +124,10 @@ export const DAY_SLICE = /* glsl */`
     }
     // (uFogK — F3B: the haze's strength by area; THE ROOFTOP has almost none — NO fog wash over the roof below)
     // (F4A — THE HAZE FOLLOWS THE FLOOR: zb = this slice lies under the border in sight — its own area's haze, never the one above's eased over a second)
-    float fogK = mix(uFogK, uFogKB, zb);
-    col = mix(col, mix(uFog, uFogB, zb), far * 0.62 * fogK);
-    alpha *= mix(1.0, mix(1.0, 0.62, smoothstep(0.35, 1.0, far)), fogK);
+    // (F5A's add-on — THE DAY OFFICES FOG: the area's haze STARTS fs of the way down — night.js#FOG_START; 0 everywhere but THE OFFICES)
+    float fogK = mix(uFogK, uFogKB, zb), fs = mix(uFogS, uFogSB, zb), hz = clamp((far - fs) / (1.0 - fs), 0.0, 1.0);
+    col = mix(col, mix(uFog, uFogB, zb), hz * 0.62 * fogK);
+    alpha *= mix(1.0, mix(1.0, 0.62, smoothstep(0.35, 1.0, hz)), fogK);
     col = mix(col, vec3(1.0, 0.36, 0.7), clamp(vF.x, 0.0, 1.0) * (face < 0.5 ? 0.5 : 0.2));   // (a landing's flash: the ball's own pink on the ice)
     if (uBloom > 0.5) col = vec3(0.0);`;
 

diff --git a/js/games/freefall/share.js b/js/games/freefall/share.js
@@ -44,7 +44,8 @@ export const SHOT_LIFT = 0.3;
  *  under the ball, the look's own dark (the stylesheet's --ff-dk: night · day) */
 // (F5A — THE LIGHTS WENT OUT = the ball with the dark edge CLOSING ABOVE IT: the dark comes down from the frame's top to `edge` of the
 //  frame's height over the ball — a soft violet line of light along its foot, as the game's own edge — and the sides close in round it)
-export const DARK = Object.freeze({ rx: 0.72, ry: 0.95, clear: 0.34, down: 0.2, a: 0.9, edge: 0.15, night: '3,0,10', day: '12,14,26' });
+// (the review: at 360 px the lit room said nothing — the dark comes down to within about half a ball of the ball + in from both sides)
+export const DARK = Object.freeze({ rx: 0.56, ry: 0.8, clear: 0.3, down: 0.1, a: 0.92, edge: 0.085, night: '3,0,10', day: '12,14,26' });
 /** the area's line is wrapped only when it is over its room by more than this (a line a few px too long is drawn a little narrower) */
 export const SIDE_FIT = 1.08;
 const NUMS = '"Chakra Petch", system-ui, sans-serif';

diff --git a/js/core/marks.js b/js/core/marks.js
@@ -82,7 +82,7 @@ export const MARKS = {
     { d: 'M4 93 H32 M68 93 H96', col: '#c35bff' },
     { d: 'M38 60 C30 49 32 38 39 28 C41 36 43 39 47 35 C45 23 51 13 59 4 C58 17 66 24 66 36 C69 33 70 28 70 24 C77 36 75 51 62 60', col: '#ff3fb0' },
     { d: 'M43 54 C41 47 44 41 48 35 C50 40 52 42 55 39 C57 44 58 50 57 54', col: '#ff8c1a' },
-    { d: 'M50 53 C49 50 50 47 51 45', col: '#fff3a8', w: 3 },
+    { d: 'M50 53 C49 50 50 47 51 45', col: '#fffad0', w: 4 },
     { d: 'M38 66 A12 12 0 1 1 62 66 A12 12 0 1 1 38 66', col: '#fff0e0' },
   ] },
   // THE PASSWORD (PW1): a keyhole — the round eye and the slot below it, a key's tip at the door
